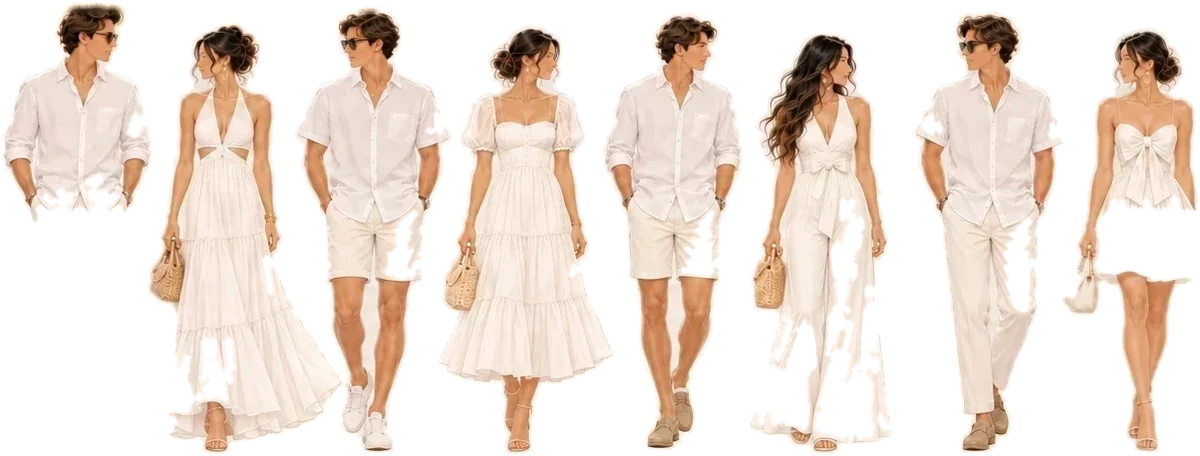
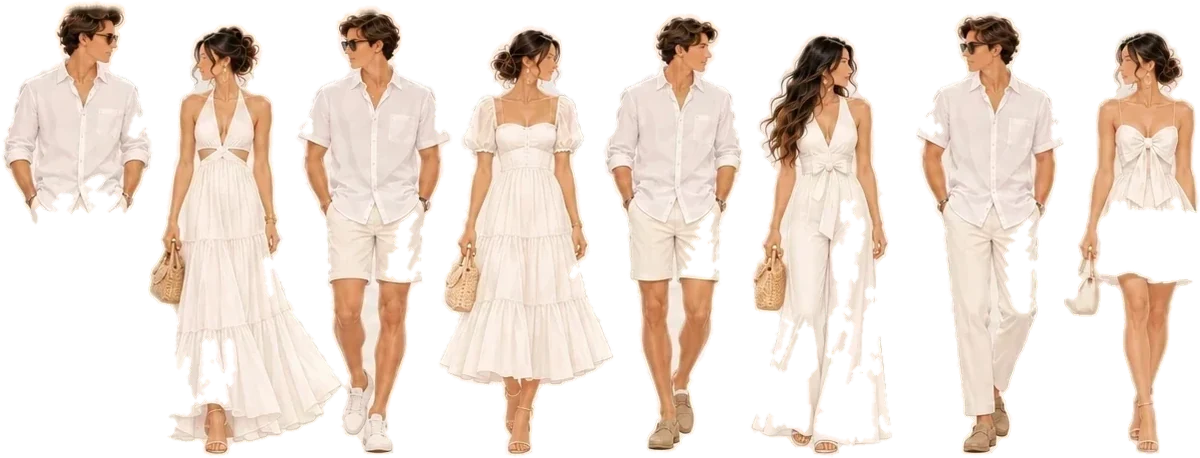
Dress code figures whole: cut to the panel's true edge, and the last row kept above the arch's curve
Claude-Session: https://claude.ai/code/session_01GqK2ENqeRUwQmtgcSZFd9X

diff --git a/index.html b/index.html
@@ -589,6 +589,7 @@ html.has-lightbox{overflow:hidden}
 .pav-motif-bottom{bottom:6px;transform:translateX(-50%) scaleY(-1)}
 /* Dress code: one card, two days. Words live in the page; only the figures are pictures. */
 .dress-block{text-align:center}
+.dress>.inner{padding-bottom:calc(var(--arch-r) * .82)}   /* the last row of figures sits above the arch's curve */
 .dress-day{display:block;font-family:var(--mono);font-size:13px;letter-spacing:.24em;text-transform:uppercase;color:var(--gold-line);margin:0 0 .5em}
 .dress-title{font-family:var(--script);font-weight:400;font-size:clamp(34px,8.6vw,50px);line-height:1.1;color:var(--olive);margin:0 0 .35em}
 .dress-copy{max-width:46ch;margin:0 auto 1.4em;font-size:15px;line-height:1.55;color:var(--olive-soft)}
@@ -926,7 +927,7 @@ html.has-lightbox{overflow:hidden}
       <span class="dress-day">Friday · The welcome party</span>
       <h2 class="dress-title">All White Attire</h2>
       <p class="dress-copy">Join us for sunset cocktails and our tea ceremony at Rock Bar! We’d love for everyone to wear white — think relaxed, elevated, and beach chic.</p>
-      <img class="dress-figs" data-src="assets/figs-white.webp" alt="Eight guests in white: linen shirts with shorts or trousers, and white dresses and a jumpsuit." width="1200" height="456" loading="lazy" decoding="async">
+      <img class="dress-figs" data-src="assets/figs-white.webp" alt="Eight guests in white: linen shirts with shorts or trousers, and white dresses and a jumpsuit." width="1200" height="458" loading="lazy" decoding="async">
     </div>
 
     <i class="dress-divider" aria-hidden="true"></i>
@@ -935,7 +936,7 @@ html.has-lightbox{overflow:hidden}
       <span class="dress-day">Saturday · The wedding</span>
       <h2 class="dress-title">Tropical Black Tie</h2>
       <p class="dress-copy">Tropical black tie attire is requested, with vibrant colors and tropical hues warmly encouraged. Lightweight fabrics and destination-friendly silhouettes are welcome. Above all, come dressed in your formal best and ready to celebrate with us.</p>
-      <img class="dress-figs" data-src="assets/figs-tropical.webp" alt="Ten guests in colourful formalwear: suits in sage, sky blue, navy, ivory and rose, and gowns in lilac, gold, floral, coral and pink." width="1200" height="425" loading="lazy" decoding="async">
+      <img class="dress-figs" data-src="assets/figs-tropical.webp" alt="Ten guests in colourful formalwear: suits in sage, sky blue, navy, ivory and rose, and gowns in lilac, gold, floral, coral and pink." width="1200" height="419" loading="lazy" decoding="async">
     </div>
   </div>
 </section>
